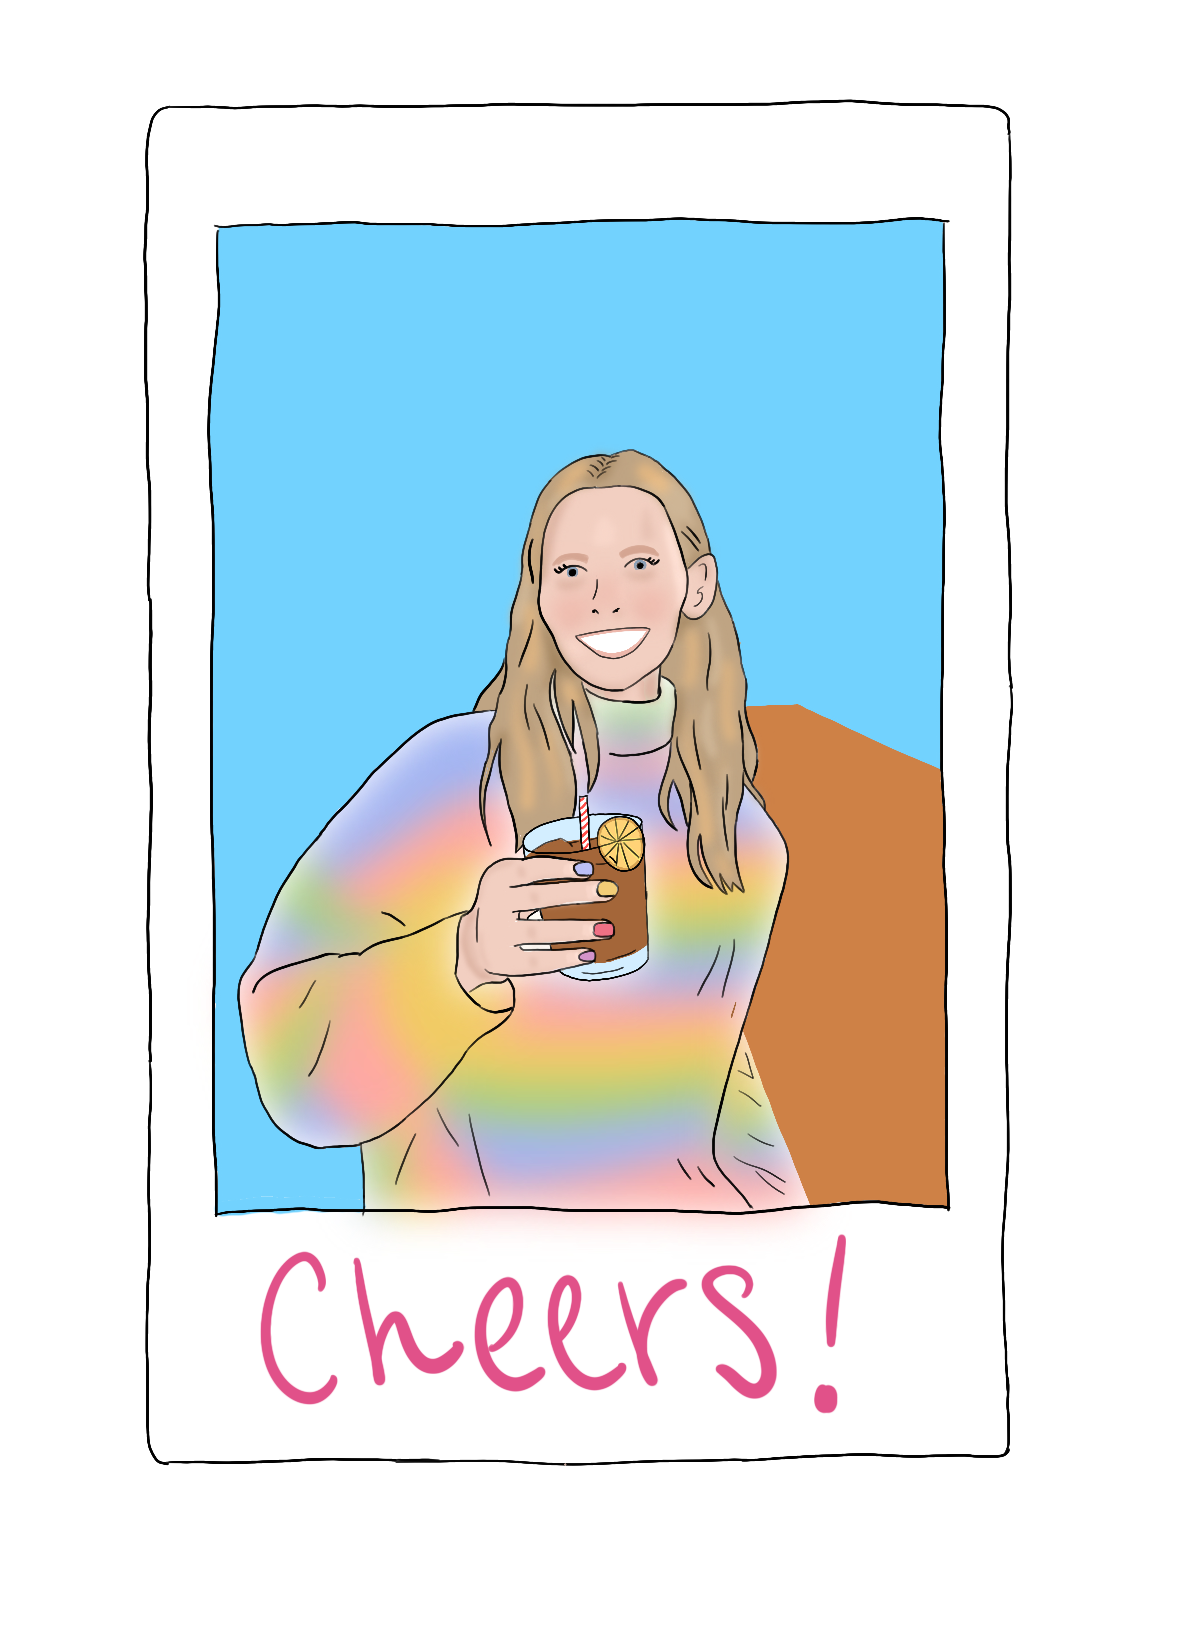
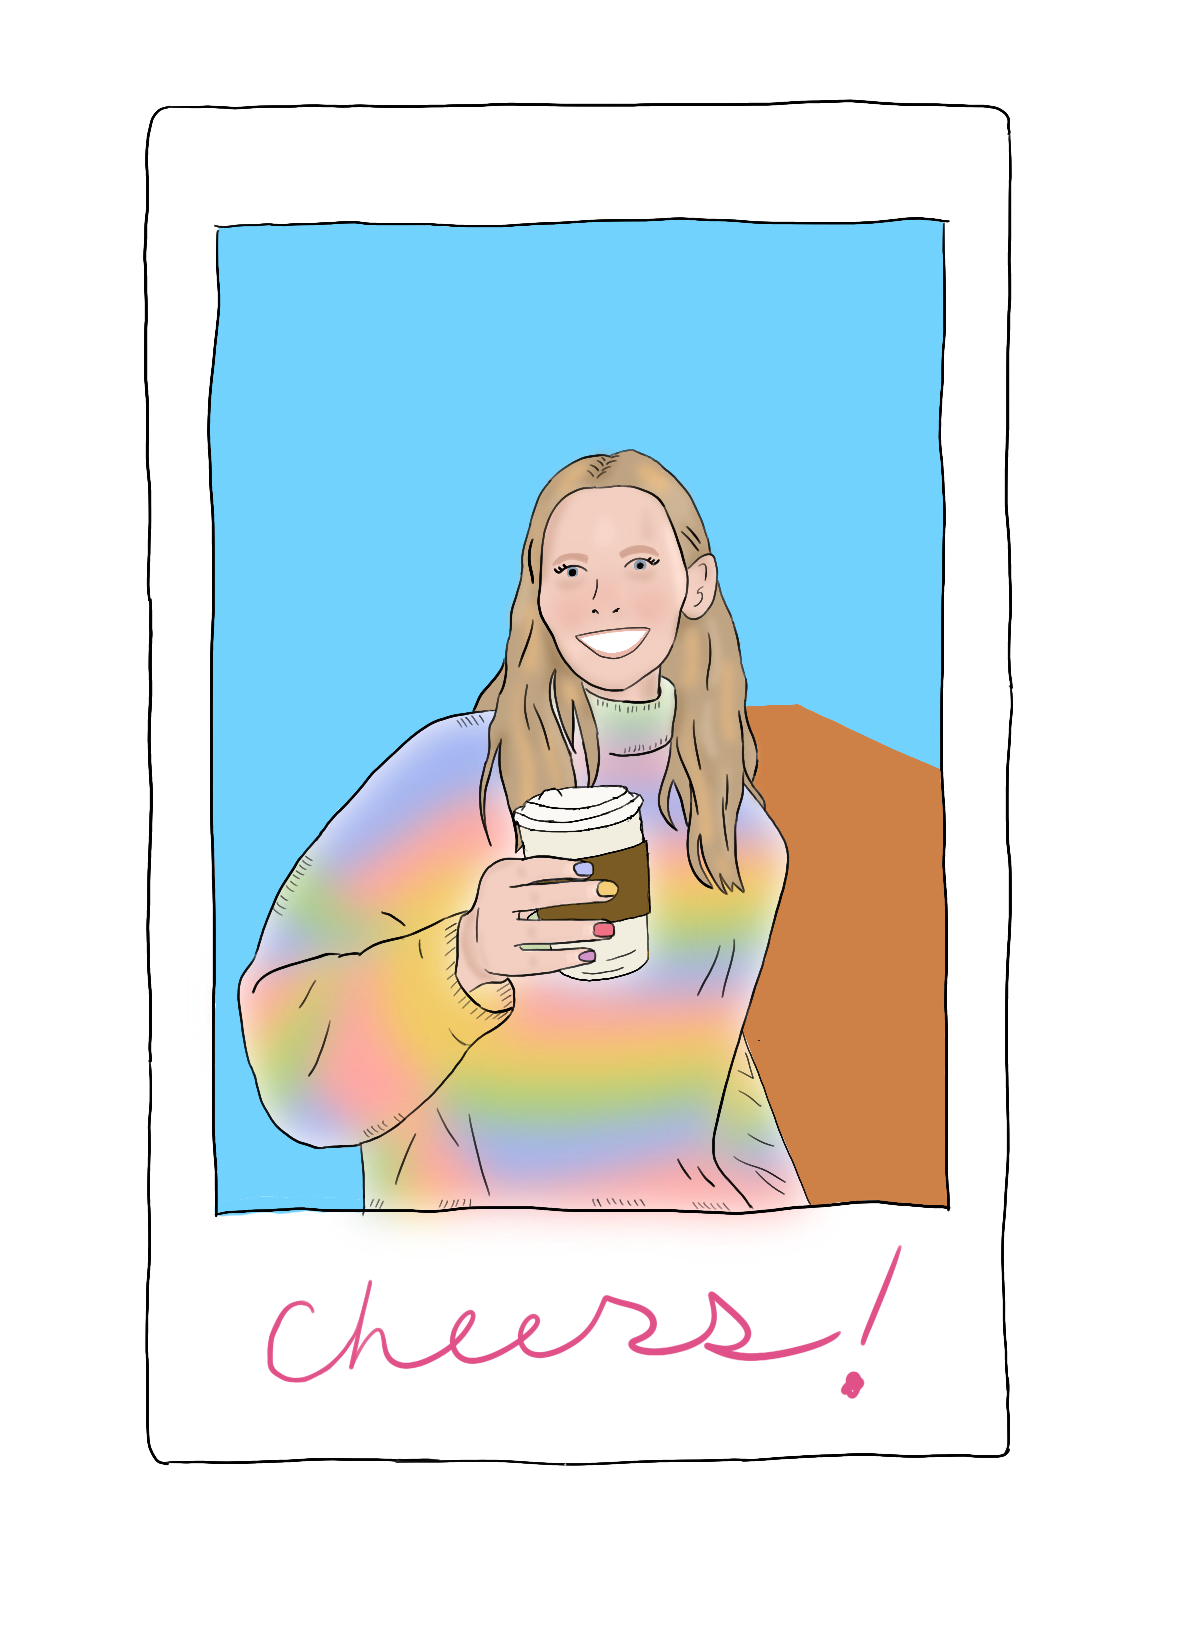
updated hero image

Changed region(s): [[0.2162, 0.7482, 0.7412, 0.8729], [0.4324, 0.4676, 0.5559, 0.6235]]

diff --git a/src/components/Hero.tsx b/src/components/Hero.tsx
@@ -1,6 +1,6 @@
 import Image from "next/image";
 import TypewriterAnimation from "./TypewriterAnimation";
-import { ArrowDownCircleIcon } from "@heroicons/react/24/outline";
+import { ArrowDownTrayIcon } from "@heroicons/react/24/outline";
 
 export default function HeroComponent() {
   return (
@@ -31,17 +31,17 @@ export default function HeroComponent() {
               download="annahuisinga_resume.pdf"
             >
               <p>Resume</p>
-              <ArrowDownCircleIcon className="h-[1.7rem]" />
+              <ArrowDownTrayIcon className="h-[1.5rem]" />
             </a>
           </div>
         </div>
-        <div className="mx-auto hidden rotate-12 drop-shadow-xl lg:flex">
+        <div className="mx-auto hidden rotate-6 drop-shadow-xl lg:flex">
           <Image
-            src={"/images/cartoon-me.png"}
+            src={"/images/hero-image.png"}
             className="object-cover"
-            alt="profile photo"
-            height={400}
-            width={400}
+            alt="polaroid cartoon of me"
+            height={500}
+            width={500}
           />
         </div>
       </div>
